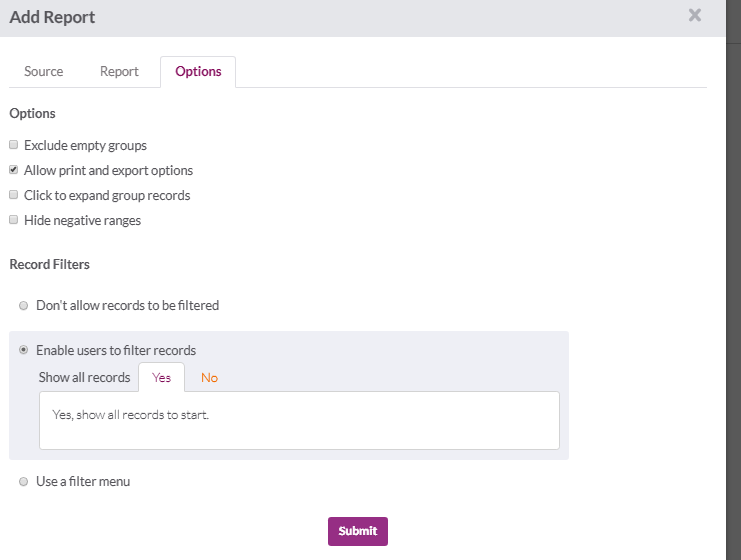
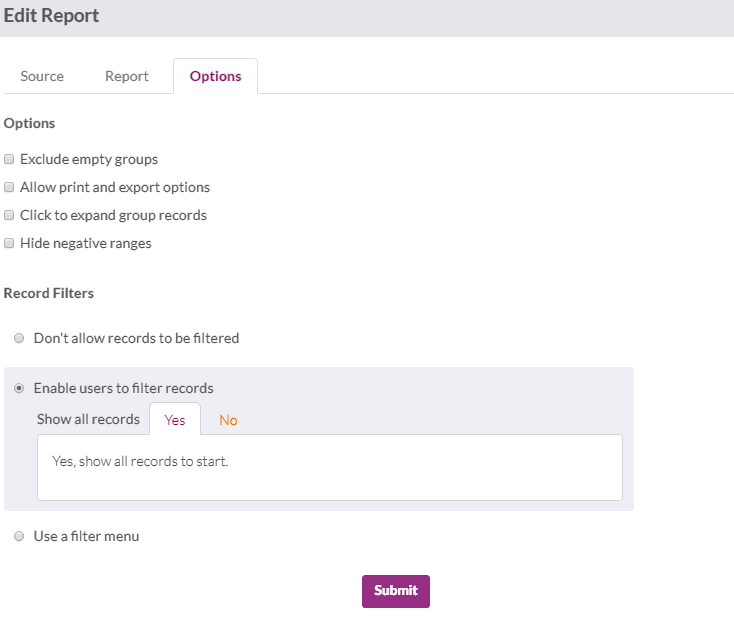
Updated Changes folders for 27, 28, 45, 53.

diff --git a/changes/27.md b/changes/27.md
@@ -1,6 +1,6 @@
 # 27 As a PPR staff person, I want to be able to view where one of my colleagues is assigned and their (facility) contact information, so that I can contact them.
 
-1. Create new page using the "Link to a new page" Start by editing the "Staff Menu" in Staff.
+1. Create new page using the "Link to a new page" Start by editing the "Staff Menu" in Staff.
    ![1](images/27/01.png)
 
 2. Click on "Link to a new page"
@@ -34,44 +34,44 @@
 
 ![](images/27/10.png)
 
-11. Edit Staff Menus for Facility and Programs to include Staff Contacts, and create one a Staff Menu for Staff Contacts. Start by cling on the Staff Menu for the page for Facility.
+10. Edit Staff Menus for Facility and Programs to include Staff Contacts, and create the Staff Menu in Staff Contacts. Start by clicking on the Staff Menu for the page for Facility.
 
 ![](images/27/11.png)
 
-12. Add link to an existing page.
+11. Add link to an existing page.
 
 ![](images/27/12.png)
 
-13. Name it "Staff Contacts".
+12. Name it "Staff Contacts".
 
 ![](images/27/13.png)
 
-14. Save Changes.
+13. Save Changes.
 
 ![](images/27/14.png)
 
-15. Edit the Staff Menu in the Programs page.
+14. Edit the Staff Menu in the Programs page.
 
 ![](images/27/15.png)
 
-16.  Add link to an existing page
+15.  Add link to an existing page
 
 ![](images/27/16.png)
 
-17.  Save Changes.
+16.  Save Changes.
 
 ![](images/27/18.png)
 
-18. Add a Staff Menu to the Staff Contacts page.
+17. Add a Staff Menu to the Staff Contacts page.
 
 ![](images/27/19.png)
 
-19. Add a Menu, name it Staff Menu* and move it above the Staffs table.
+18. Add a Menu, name it Staff Menu* and move it above the Staffs table.
 
 ![](images/27/20.png)
 
-20. Edit until it works like the other menus, seen below: My Profile, My Facilities, Programs, Staff Contacts
+19. Edit until it works like the other menus, seen below: My Profile, My Facilities, Programs, Staff Contacts
 
 ![](images/27/21.png)
 
-   
+   

diff --git a/changes/45.md b/changes/45.md
@@ -12,12 +12,12 @@
 
 4. Set data as follows, add spaces where needed:
 - Short Text: Form Link, Form Name, Form ID, Revision Number, Grouping, Relative Link
-- Paragraph Text: Notes, Purpose
+- Paragraph Text: Notes, Purpose, Status
 - Boolean: ExternalFacing?, Online Submission?, Online Availability
-- Multiple Choice: Source, Category/Division, Type, Scan/PDF, Job Association
+- Multiple Choice: Source, Category/Division, Type, Scan/PDF, Job Association, ROT, Source
 - Number: Pages
 - Link-URL: Download Link
-- Exclude (uncheck the Include box): ROT, Source, Status
+
   ![](images/45/04.PNG)
 
 5. Add Link in Staff View.
@@ -59,8 +59,8 @@
 17. Edit the table by clicking the settings icon.
    ![](images/45/21.png)
 
-18.  Add the Columns in the order as presented. Move the Download Link to the right of the Form Link.
+18. Add the Columns in the order: Form Name, Purpose, Download Link
    ![](images/45/25.png)
-   
+
 19. Edit Header to "Forms Library" and caption to "Use the search or filter functions to easily find the form you are looking for.  Click download link to download the file.  Contact Andy if you have a form to add to the library or need to request one that is missing from the forms library." Click Save Changes.
    ![](images/45/26.png)

diff --git a/changes/28.md b/changes/28.md
@@ -1,0 +1,33 @@
+# 28. As a MyPPR Manager, I want to be able to manage where my staff are in a easy to use interface so that I can have an authoritative list of where staff are assigned.
+
+1. Click Settings icon in Menu under the Manager's page.
+   ![](images/28/01.PNG)
+
+2. Create Link to a new page.
+   ![](images/28/02.PNG)
+
+3. Click "Select an Object" under the Quick Start Page tab.
+   ![](images/28/03.PNG)
+
+4. Choose "Users".
+   ![](images/28/04.PNG)
+
+5. Check/un-check the boxes as seen below.
+   ![](images/28/05.PNG)
+
+6. Name the page "Facility Staff".
+   ![](images/28/06.PNG)
+
+7. Save changes.
+   ![](images/28/07.PNG)
+
+8. Edit the view by clicking the settings icon on the Facility Staff table.
+   ![](images/28/08.PNG)
+
+9. Edit the table so it displayys the following columns in the following order with these titles: Name, Staff Title, Email, Secondary Email, Contact Phone Number, District, Employee Number, Edit User, Assigned Facility.
+   ![](images/28/09.PNG)
+
+10. Add the Facility Staff to the other menus in the Mangers role. Click on the settings icon for the Menus each of the views for Manager. 
+   ![](images/28/10.png)
+
+

diff --git a/changes/53.md b/changes/53.md
@@ -4,6 +4,16 @@
    ![](images/53/01.PNG)
 
 2. Choose ProgramAttendances connected to this Programs. Then Add report.
-
    ![](images/53/02.PNG)
+
+3. Edit the report to match below
+   ![](images/53/03.PNG)
+
+4. Edit the options to match below.
+   ![](images/53/04.PNG)
+
+5.  Edit link to say "My Facility Performance"
+
+   ![](images/53/05.png)
+
 
